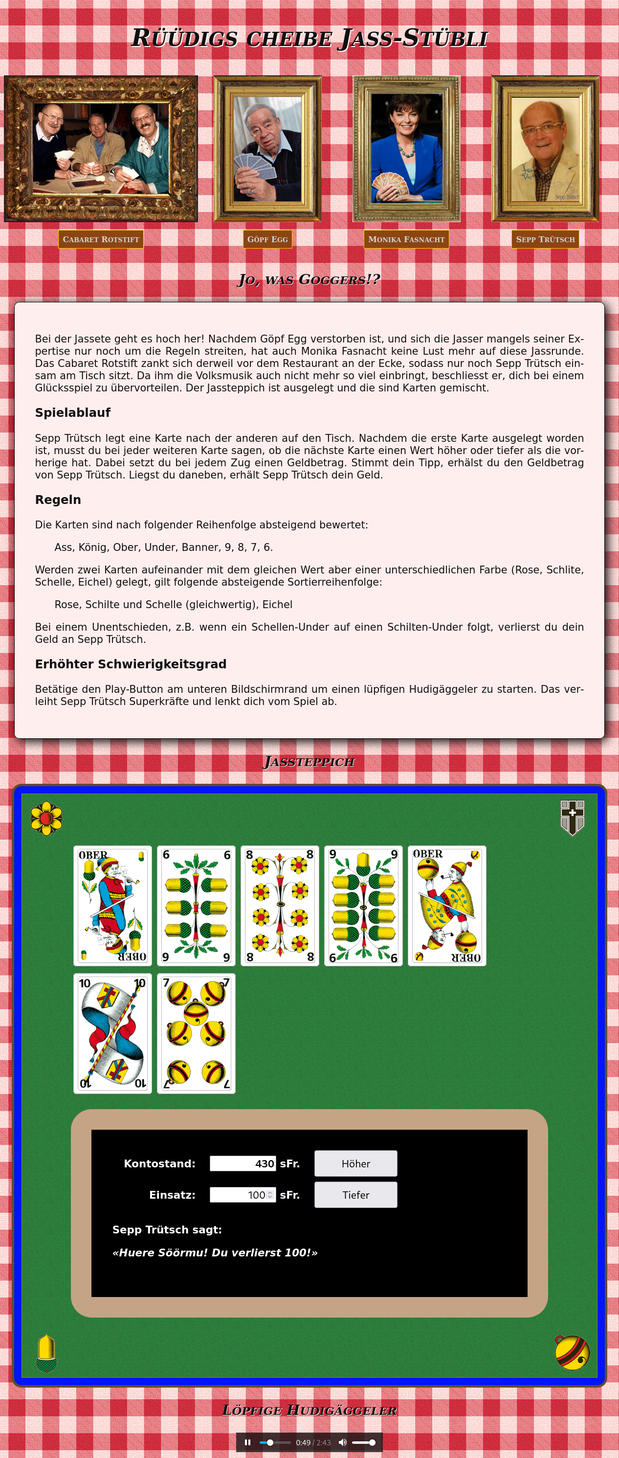
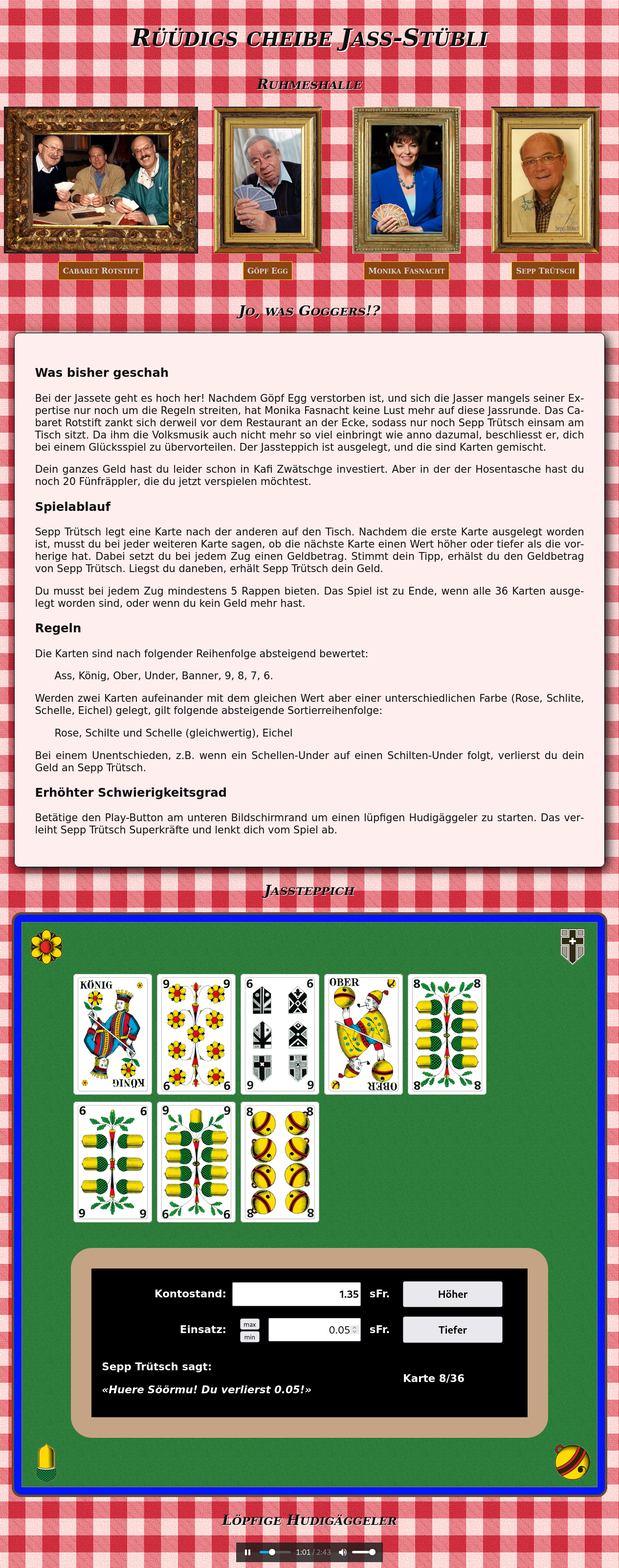
stripped down README, updated screenshot

diff --git a/README.md b/README.md
@@ -1,48 +1,5 @@
-# Jassete [in Arbeit]
+# Jassete
 
-Bei der _Jassete_ geht es hoch her! Nachdem Göpf Egg verstorben ist, und sich
-die Jasser mangels seiner Expertise nur noch um die Regeln streiten, hat auch
-Monika Fasnacht keine Lust mehr auf diese Jassrunde. Das Cabaret Rotstift zankt
-sich derweil vor dem Restaurant an der Ecke, sodass nur noch Sepp Trütsch einsam
-am Tisch sitzt. Da ihm die Volksmusik auch nicht mehr so viel einbringt,
-beschliesst er, dich bei einem Glücksspiel zu übervorteilen. Der Jassteppich ist
-ausgelegt und die sind Karten gemischt.
+Spielbar auf [paedubucher.ch/jassete](https://paedubucher.ch/jassete)
 
 ![Screenshot](screenshot.png)
-
-## Spielregeln
-
-Jetzt legt der Sepp eine Karte nach der anderen auf den Tisch. Nachdem die erste
-Karte ausgelegt worden ist, musst du bei jeder weiteren Karte sagen, ob die
-nächste Karte einen Wert _höher_ oder _tiefer_ als die vorherige hat. Dabei
-setzt du bei jedem Zug einen Geldbetrag. Stimmt dein Tipp, erhälst du den
-Geldbetrag von Sepp Trütsch. Liegst du daneben, erhält Sepp Trütsch dein Geld.
-
-Die Karten sind nach folgender Reihenfolge _absteigend_ bewertet:
-
-1. Ass
-2. König
-3. Ober
-4. Under
-5. 10 (Banner)
-6. 9
-7. 8
-6. 7
-7. 6
-
-Werden zwei Karten aufeinander mit dem _gleichen Wert_ aber einer
-_unterschiedlichen Farbe_ (Rose, Schlite, Schelle, Eichel) gelegt, gilt folgende
-_absteigende_ Sortierreihenfolge:
-
-1. Rose
-2. Schilte und Schelle (gleichwertig)
-3. Eichel
-
-Bei einem _Unentschieden_, z.B. wenn ein Schellen-Under auf einen Schilten-Under
-folgt, verlierst du dein Geld an Sepp Trütsch.
-
-### Hardcore Mode
-
-Betätige den _Play_-Button am unteren Bildschirmrand um einen _lüpfigen
-Hudigäggeler_ zu starten. Das verleiht Sepp Trütsch Superkräfte und lenkt dich
-vom Spiel ab.
